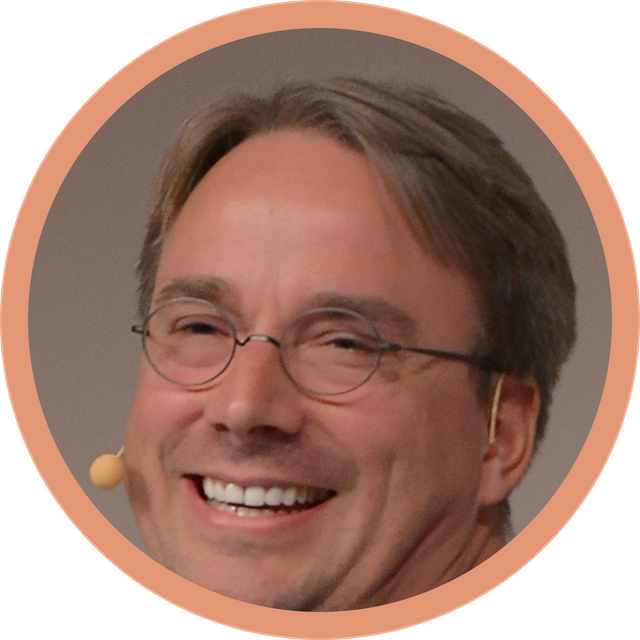
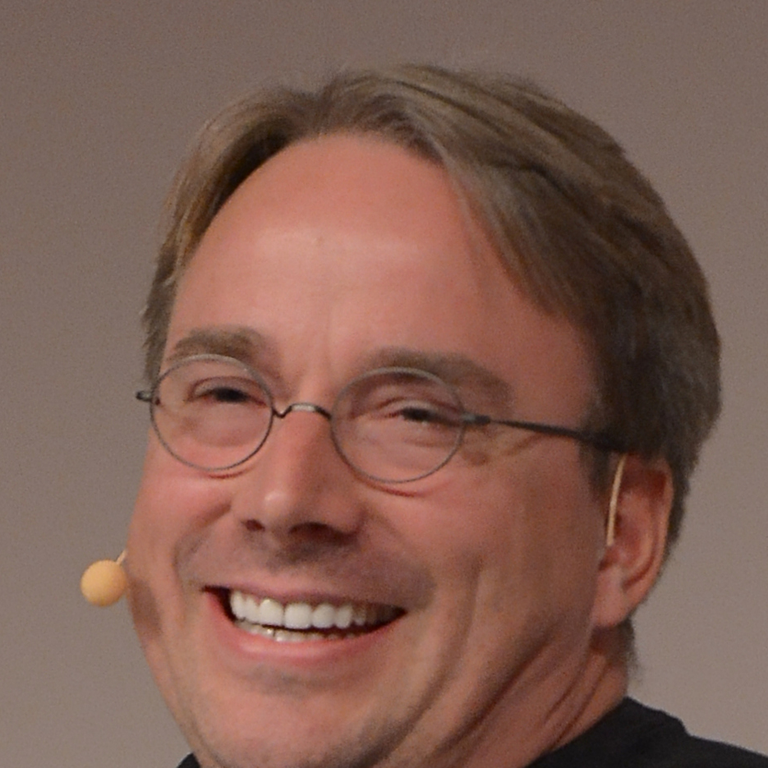
Draw terracotta quote rings in CSS so they stay visible.
Replace baked-in PNG frames with square headshots and a padding-based warm ring, and keep quote cards overflow-visible so the accent is not clipped.

diff --git a/frontend/src/site/SiteShell.js b/frontend/src/site/SiteShell.js
@@ -201,25 +201,25 @@ function HomePanel({ onOpenTab, onOpenGame }) {
       text: 'Wear your failure as a badge of honor.',
       name: 'Sundar Pichai',
       role: 'CEO, Google',
-      photo: '/images/quotes/sundar-pichai.png?v=5',
+      photo: '/images/quotes/sundar-pichai.png?v=6',
     },
     {
       text: 'Our industry does not respect tradition — it only respects innovation.',
       name: 'Satya Nadella',
       role: 'CEO, Microsoft',
-      photo: '/images/quotes/satya-nadella.png?v=5',
+      photo: '/images/quotes/satya-nadella.png?v=6',
     },
     {
       text: 'Talk is cheap. Show me the code.',
       name: 'Linus Torvalds',
       role: 'Creator of Linux',
-      photo: '/images/quotes/linus-torvalds.png?v=5',
+      photo: '/images/quotes/linus-torvalds.png?v=6',
     },
     {
       text: 'Design is not just what it looks like and feels like. Design is how it works.',
       name: 'Steve Jobs',
       role: 'Co-founder, Apple',
-      photo: '/images/quotes/steve-jobs.png?v=5',
+      photo: '/images/quotes/steve-jobs.png?v=6',
     },
   ];
   const fieldNotes = [

diff --git a/frontend/src/site/site.css b/frontend/src/site/site.css
@@ -3196,22 +3196,25 @@ body::-webkit-scrollbar,
   padding: 1.05rem 1.1rem 1.15rem;
   border-radius: 14px;
   border: 1px solid var(--site-border);
+  overflow: visible;
   background:
     linear-gradient(165deg, rgba(42, 24, 56, 0.55), rgba(16, 8, 24, 0.92));
 }
 
 .site-home__quote-photo {
+  /* CSS terracotta frame — do not use overflow:hidden here or the ring vanishes */
   box-sizing: border-box;
-  width: 6rem;
-  height: 6rem;
+  width: 6.25rem;
+  height: 6.25rem;
+  padding: 5px;
   border-radius: 50%;
   flex-shrink: 0;
-  /* Baked PNG ring + stronger outer halo so terracotta reads on dark cards */
+  overflow: visible;
+  background: #e39774;
+  border: 1px solid #f0b498;
   box-shadow:
-    0 0 0 2px #e39774,
-    0 0 0 5px rgba(227, 151, 116, 0.35),
+    0 0 0 3px rgba(227, 151, 116, 0.42),
     0 10px 22px rgba(0, 0, 0, 0.4);
-  background: transparent;
 }
 
 .site-home__quote-photo img {
@@ -3221,6 +3224,7 @@ body::-webkit-scrollbar,
   object-fit: cover;
   object-position: center center;
   display: block;
+  background: #1a1024;
 }
 
 .site-home__quote-body {
